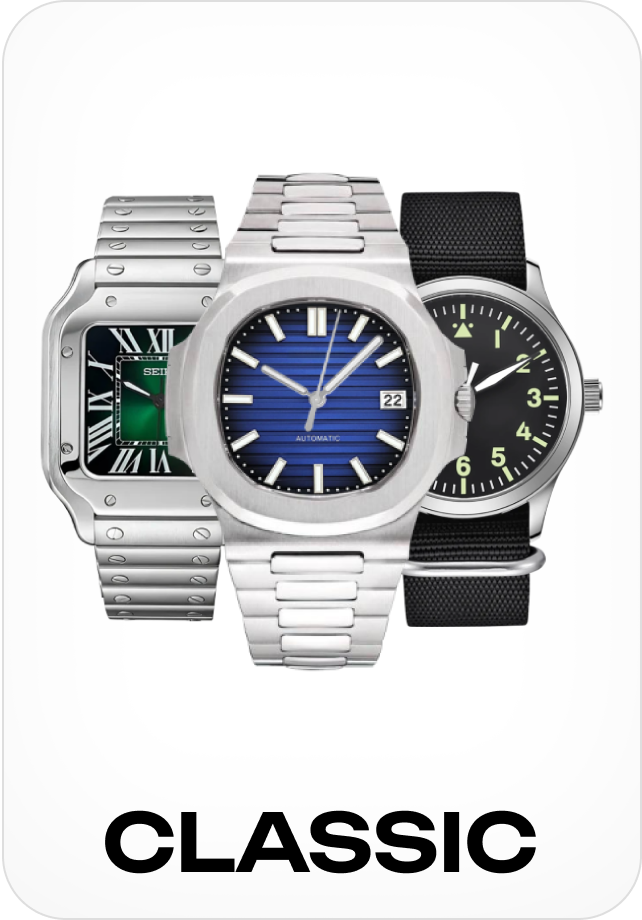
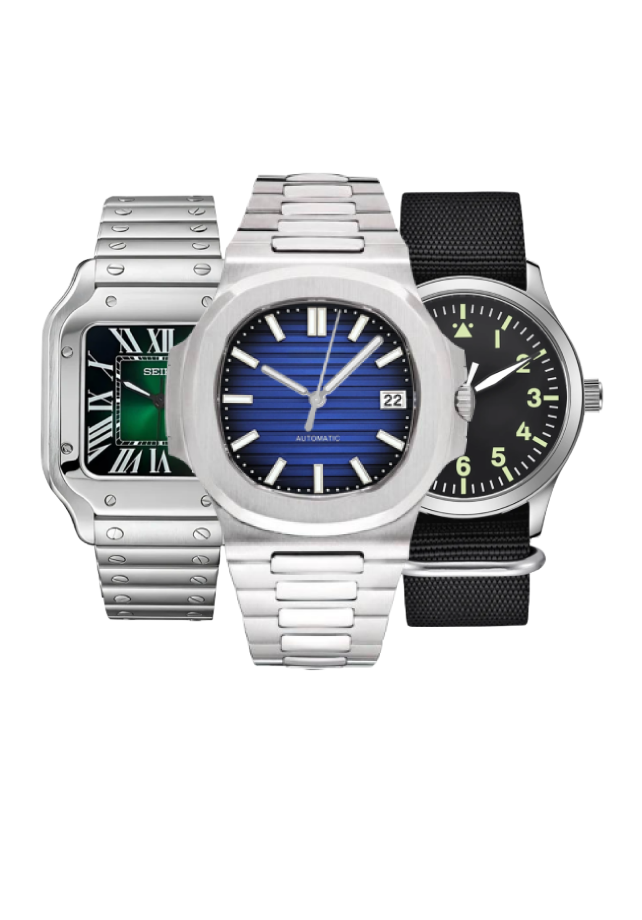
section page

Changed region(s): [[0.1558, 0.8826, 0.8411, 0.9739], [0.9969, 0.0609, 1.0, 0.9435]]

diff --git a/pageConstructorsSections.html b/pageConstructorsSections.html
@@ -13,16 +13,16 @@
     <div id="header"></div>
 
     <main class="constructor-sections">
-        <h1>КОНСТРУКТОР ЧАСОВ</h1>
+        <h1 data-i18n="pageConstructorsSections.title">КОНСТРУКТОР ЧАСОВ</h1>
 
         <div class="sections-wrapper">
             <div class="section-box" data-target="pageConstructorSport.html">
                 <img src="subsections_img/subSectionSport.png" alt="Sport/Casual" />
-                <div class="section-title">SPORT/<br>CASUAL</div>
+                <div class="section-title" data-i18n="pageConstructorsSections.sport">SPORT/<br>CASUAL</div>
             </div>
             <div class="section-box" data-target="pageConstructorClassic.html">
                 <img src="subsections_img/subSectionClassics.png" alt="Classic" />
-                <div class="section-title">CLASSIC</div>
+                <div class="section-title" data-i18n="pageConstructorsSections.classic">CLASSIC</div>
             </div>
         </div>
     </main>
@@ -30,10 +30,56 @@
     <!-- Футер будет загружен через JS -->
     <div id="footer"></div>
 
+
+    <script>
+        document.addEventListener("DOMContentLoaded", function () {
+            // Проверяем каждые 100мс, появился ли элемент с id="burgerBtn"
+            const interval = setInterval(() => {
+                const burger = document.getElementById("burgerBtn");
+                const header = document.querySelector(".header-desk");
+                const nav = document.getElementById("mobileNav");
+                const closeBtn = document.getElementById("mobileNavClose");
+
+                if (burger && header && nav && closeBtn) {
+                    clearInterval(interval); // Остановить таймер как только всё найдено
+
+                    // Скрыть по умолчанию
+                    header.classList.add("collapsed");
+                    nav.style.display = "none";
+
+                    // Открыть меню
+                    burger.addEventListener("click", function (e) {
+                        e.stopPropagation();
+                        const isVisible = nav.style.display === "flex";
+                        nav.style.display = isVisible ? "none" : "flex";
+                        header.classList.toggle("collapsed", isVisible);
+                        document.body.classList.toggle("nav-open", !isVisible);
+                    });
+
+                    // Закрыть по кнопке ×
+                    closeBtn.addEventListener("click", function () {
+                        nav.style.display = "none";
+                        header.classList.add("collapsed");
+                        document.body.classList.remove("nav-open");
+                    });
+
+                    // Закрыть по клику вне меню
+                    document.addEventListener("click", function (e) {
+                        if (!header.contains(e.target) && window.innerWidth <= 768) {
+                            nav.style.display = "none";
+                            header.classList.add("collapsed");
+                            document.body.classList.remove("nav-open");
+                        }
+                    });
+                }
+            }, 100);
+        });
+    </script>
+
+
     <script src="header-footer-loader.js"></script>
     <script src="scriptConstructorsSections.js"></script>
     <script src="localization.js"></script>
-
 </body>
 
 </html>

diff --git a/StyleConstructorsSections.css b/StyleConstructorsSections.css
@@ -11,7 +11,7 @@
 body {
     background: #fff;
     color: #000;
-    font-family: 'Montserrat', sans-serif;
+    font-family: 'Inter', sans-serif;
     max-width: 100%;
     margin: 0;
 }
@@ -32,11 +32,29 @@ main.constructor-sections {
     text-align: center;
 }
 
+
 .constructor-sections h1 {
-    font-size: 28px;
     margin-bottom: 40px;
     text-transform: uppercase;
-    font-weight: bold;
+    font-size: 20px !important;
+    font-weight: 400 !important;
+    letter-spacing: 1px;
+    color: #555;
+}
+
+.constructor-sections .section-title {
+    margin-bottom: 16px;
+    text-transform: uppercase;
+    font-size: 17px !important;
+    font-weight: 500 !important;
+    letter-spacing: 1px;
+    color: #555;
+}
+
+@media (min-width: 769px) {
+    .constructor-sections .section-title :hover {
+        background-color: rgb(154, 30, 21);
+    }
 }
 
 .sections-wrapper {
@@ -49,22 +67,28 @@ main.constructor-sections {
 
 .section-box {
     background: #fff;
-    border-radius: 20px;
+    border-radius: 8px;
     overflow: hidden;
     width: 250px;
-    box-shadow: 0 4px 12px rgba(0, 0, 0, 0.08);
+    box-shadow: 0 2px 5px rgba(0, 0, 0, 0.08);
     position: relative;
     cursor: pointer;
     transition: transform 0.2s ease;
 }
 
 .section-box:hover {
-    transform: translateY(-4px);
+    transform: translateY(-3px);
+}
+
+.section-box:hover .section-title {
+    color: rgb(154, 30, 21);
 }
 
 .section-box img {
     width: 100%;
     height: auto;
+    /*background: #e8ded0;*/
+    background: #F5F1EB;
 }
 
 .section-title {
@@ -75,7 +99,7 @@ main.constructor-sections {
     text-align: center;
     font-weight: bold;
     font-size: 16px;
-    background: white;
+    background: transparent;
     padding: 6px 0;
     color: black;
 }
@@ -101,7 +125,7 @@ main.constructor-sections {
     }
 
     main.constructor-sections {
-        padding: 20px;
+        padding: 60px 2px 20px;
     }
 }
 
@@ -109,4 +133,27 @@ main.constructor-sections {
     max-width: 1100px;
     margin: 0 auto;
     padding: 0 20px;
+}
+
+main.constructor-sections {
+    padding: 100px 0px 20px;
+
+    background: #f0e9df;
+
+
+
+}
+
+body,
+h1,
+h2,
+p,
+a,
+button,
+div,
+img {
+    margin: 0;
+    padding: 0;
+    box-sizing: border-box;
+    font-family: 'Inter', sans-serif;
 }

diff --git a/header-footer-loader.js b/header-footer-loader.js
@@ -16,6 +16,10 @@ function loadHeaderFooter() {
             requestAnimationFrame(() => {
                 initNewLangSelector();
             });
+            // setTimeout(() => {
+            //     initCollapsibleHeader();
+            //     initHoverUnderline();
+            // }, 50);
         });
 }
 
